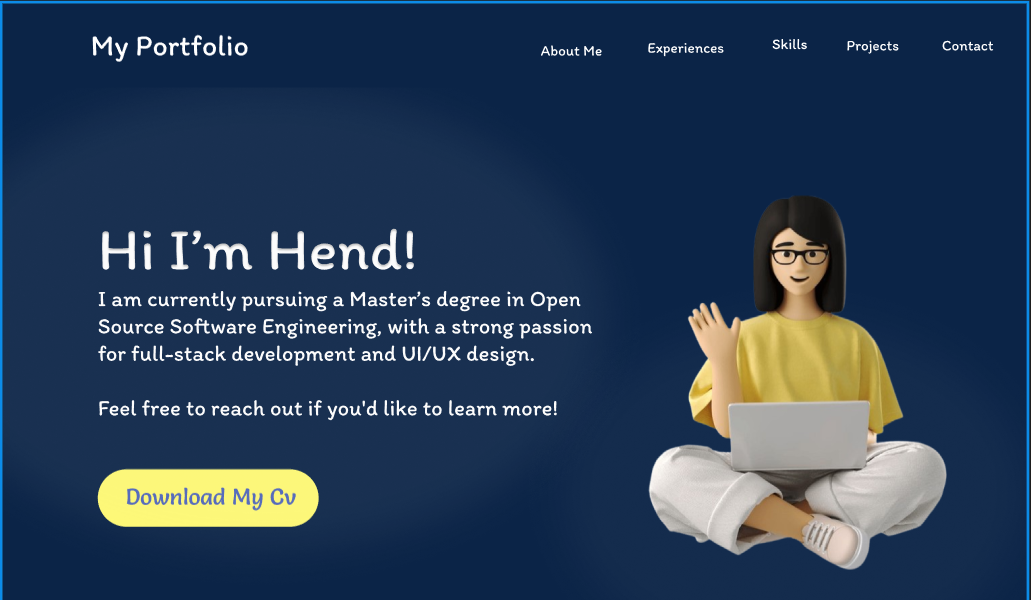
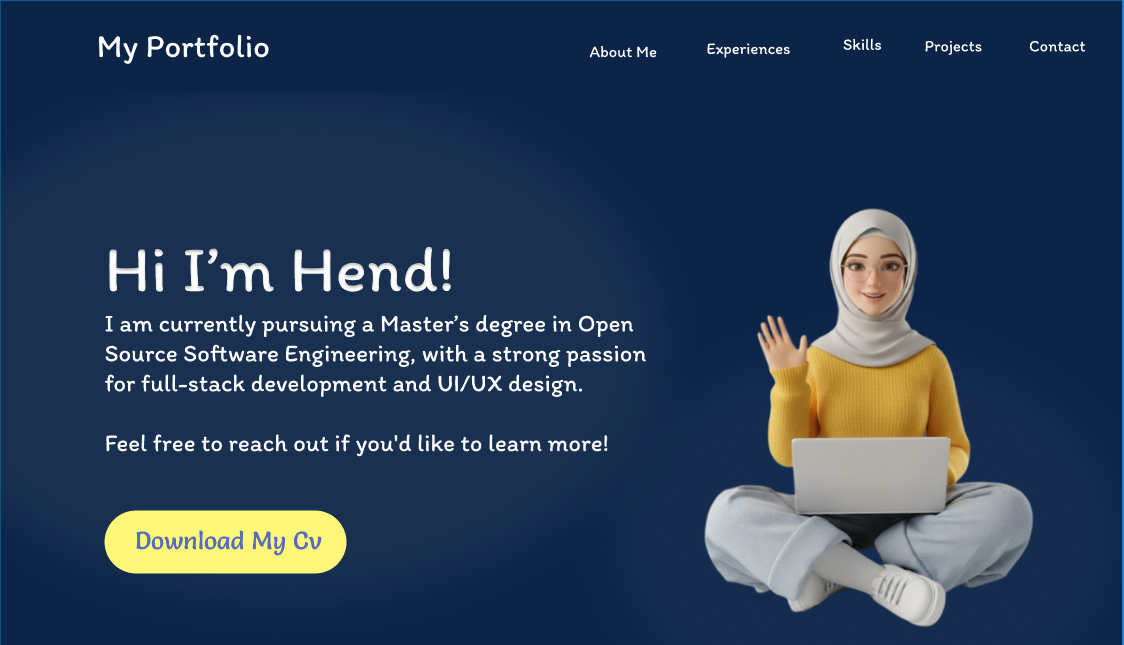
update images

diff --git a/src/components/Contact/Contact.module.css b/src/components/Contact/Contact.module.css
@@ -5,7 +5,7 @@
     padding: 100px 10%;
     gap: 30px;
     border-radius: 10px;
-    margin-bottom: -40px;
+    margin-bottom: -70px;
 }
 
 .textContainer {
@@ -16,7 +16,7 @@
 .text h2 {
     font-family: "Playwrite US Modern", cursive;
     font-size: 40px;
-    color: rgb(237, 237, 122);
+    color: rgb(241, 212, 95);
     margin-bottom: 40px;
 }
 
@@ -80,21 +80,23 @@
 .image {
     width: 100%;
     max-width: 65px;
-    margin-right: 90px;
+    margin-right: 10px;
     margin-bottom: -60px;
+        animation: floating 3s ease-in-out infinite;
 
 }
 
 .image1 {
     width: 100%;
     max-width: 80px;
-    margin-left: 70px;
+    margin-left: 180px;
     animation: floating 3s ease-in-out infinite;
 }
 
 .image2 {
     width: 100%;
-    max-width: 300px;
+    max-width: 340px;
+    margin-top: -28px;
 }
 
 @keyframes floating {

diff --git a/src/components/Hero/Hero.module.css b/src/components/Hero/Hero.module.css
@@ -42,7 +42,7 @@
 
 .contactBtn {
     text-decoration: none;
-    background-color: rgb(237, 237, 122);
+    background-color: rgb(241, 212, 95);
     color: rgb(22, 22, 124);
     border-radius: 100px;
     font-size: 26px;
@@ -53,7 +53,7 @@
 }
 
 .heroImg {
-    margin-top: 20px;
+    margin-top: 1px;
     width: 34%;
     z-index: 1;
 

diff --git a/src/components/About/About.jsx b/src/components/About/About.jsx
@@ -9,7 +9,7 @@ export const About = () => {
       <h2 className={styles.title}>About Me</h2>
       <div className={styles.content}>
         <img
-          src={getImageUrl("hero/hend1.png")}
+          src={getImageUrl("hero/hend6.png")}
           alt="Me sitting with a laptop"
           className={styles.aboutImage}
         />

diff --git a/src/components/Contact/Contact.jsx b/src/components/Contact/Contact.jsx
@@ -73,7 +73,7 @@ export const Contact = () => {
               className={styles.image1}
             />
             <img
-              src={getImageUrl("contact/me.png")}
+              src={getImageUrl("contact/hend4.png")}
               alt="Contact"
               className={styles.image2}
             />

diff --git a/src/components/Hero/Hero.jsx b/src/components/Hero/Hero.jsx
@@ -27,7 +27,7 @@ export const Hero = () => {
         
       </div>
       <img
-        src={getImageUrl("hero/hend.png")}
+        src={getImageUrl("hero/hend2.png")}
         alt="Hero image of me"
         className={styles.heroImg}
       />

diff --git a/src/components/Projects/ProjectCard.module.css b/src/components/Projects/ProjectCard.module.css
@@ -75,7 +75,7 @@
 
 .link {
     text-decoration: none;
-    color: rgb(236, 236, 87);
+    color: rgb(241, 212, 95);
     font-size: 14px;
     font-weight: 500;
     border-radius: 100px;
